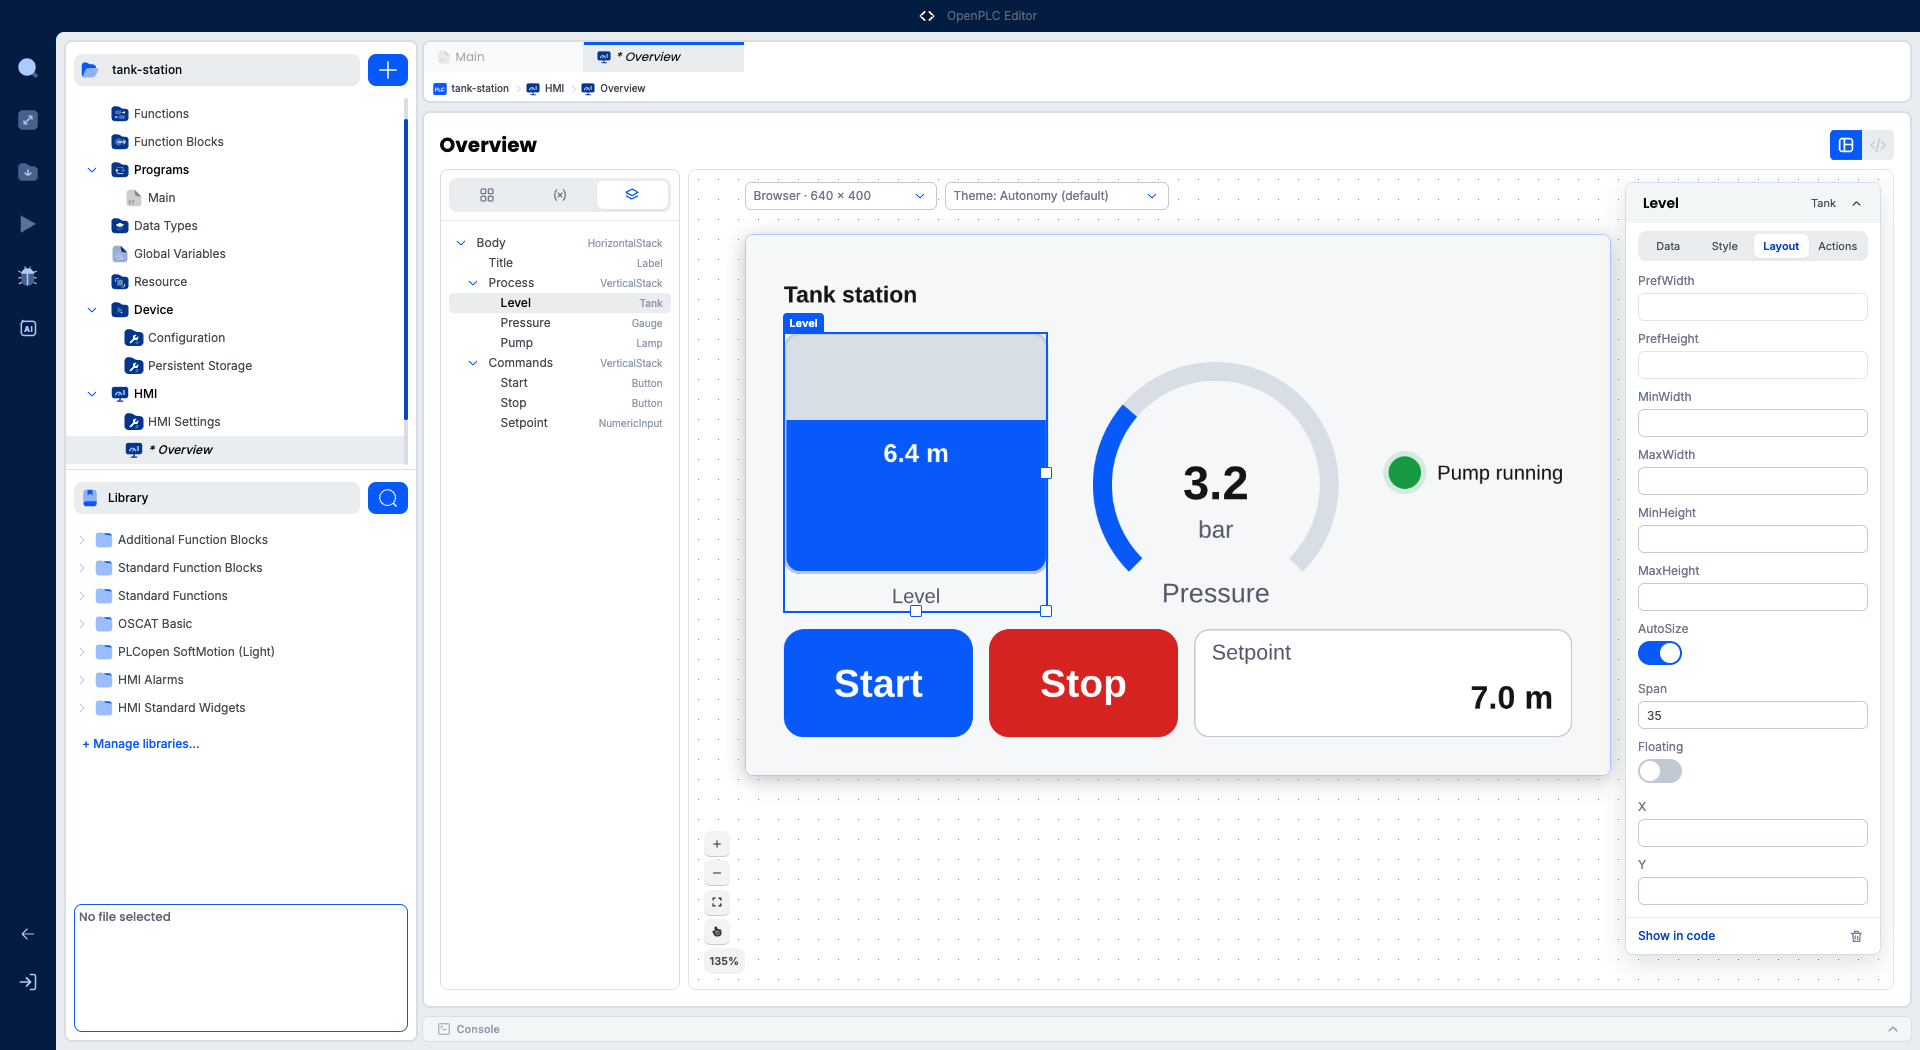
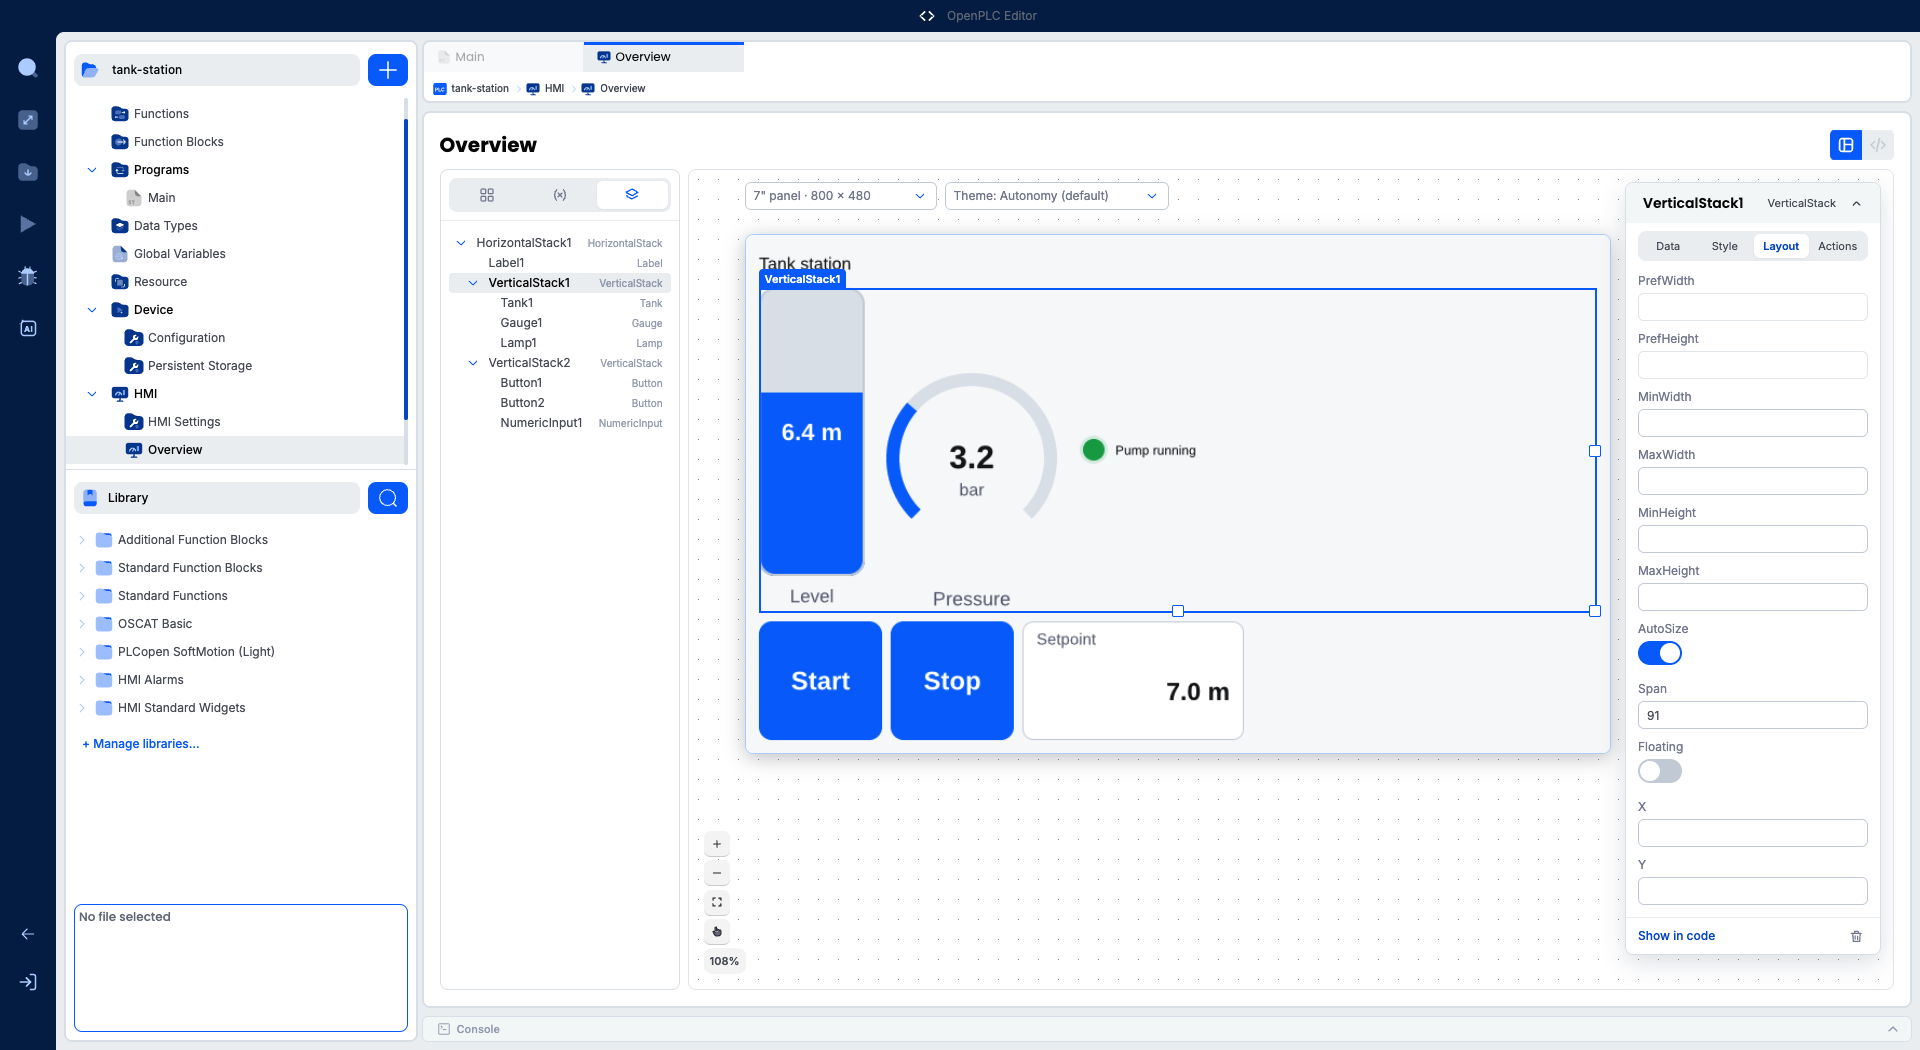
Walk through building an HMI screen step by step
Designing screens now follows one project from an empty screen to the
finished one, each screenshot showing that step. Screen code and layout
use the names the designer writes, with matching screenshots.

Claude-Session: https://claude.ai/code/session_01YB59x4JD6LNzCP8s5g9YDa

diff --git a/docs/openplc-editor/hmi/designing-screens.md b/docs/openplc-editor/hmi/designing-screens.md
@@ -1,8 +1,8 @@
 # Designing screens
 
-This page walks through building a screen in the designer, from an empty screen to a working page with live values, buttons and a setpoint.
+This page builds a screen from scratch, step by step: an empty screen first, then widgets, then live values, buttons and a setpoint. Follow along in your own project; each screenshot shows the screen at that step.
 
-The examples use a small tank station program:
+The screen is for a small tank station. Its program has a tank level, a pressure, a setpoint and a pump that starts and stops:
 
 ```st
 PROGRAM Main
@@ -21,56 +21,85 @@ END_PROGRAM
 
 ---
 
-## Creating a screen
+## Step 1. Create the screen
 
-Click the **+** button at the top of the project tree and choose **HMI Screen**. Give the screen a name, such as `Overview`.
+Click the **+** button at the top of the project tree and choose **HMI Screen**. Type a name, `Overview`, and click **Create**.
 
-![The + menu open, listing Function, Function Block, Program, Data Type, Global Variable List, Server, Remote Device, HMI Screen and HMI Widget](images/plus-menu.png)
-
-The first screen you create also adds **HMI Settings** to the **HMI** branch of the tree. A new screen starts with one container that fills it, ready for widgets.
+![The + menu open on HMI Screen, with the Name field showing Overview and the Cancel and Create buttons](images/steps-01-new-screen-name.png)
 
 > **Tip:** Screen names follow the same rules as program names: letters, digits and underscores, starting with a letter.
 
 ---
 
-## The designer
+## Step 2. Meet the designer
 
-The screen opens in the designer:
+The new screen opens in the designer. It is empty except for one container that fills it, ready for widgets. The first screen also adds **HMI Settings** to the new **HMI** branch of the project tree.
 
-![The designer: the palette on the left with Containers, Shapes and Display groups, the running screen in the centre, the device and theme pickers above it and the zoom controls below](images/designer-overview.png)
+![The designer showing the new, empty Overview screen: the widget palette on the left, the empty screen in the centre, the device and theme pickers above it and the zoom controls below](images/steps-02-new-screen.png)
 
 - **The palette** (left) has three tabs:
   - **Widgets**: everything you can place, grouped (Containers, Shapes, Display, Controls, Process, Alarms, Data), with a search box.
   - **Variables**: the program and global variables you can show.
-  - **Layers**: the screen's elements as a tree, which is the easiest way to select a container or a small element.
+  - **Layers**: the screen's elements as a tree, the easiest way to select a container or a small element.
 - **The canvas** (centre) is the screen itself, running. Values, animations and colors are live.
 - **The device picker** (above the canvas) sets the display size you preview on: **Browser**, **Browser @1x**, **7" panel**, **ESP32 CYD** or **Phone**.
 - **The theme picker** previews the screen in another theme.
 - **The zoom controls** (below left) zoom in and out, fit the screen to the window, and switch to preview mode.
-- **The properties card** (right) appears when you select an element.
 
 The two buttons at the top right switch between the **Designer** and the **Code** view of the same screen.
 
 ---
 
-## Adding widgets
+## Step 3. Add a title and a row of widgets
+
+Widgets always go into a container. The screen's container is a **Horizontal stack**: it places what you put in it top to bottom. For widgets side by side, add a **Vertical stack** into it. See [Screen layout that fits any display](layout).
 
 There are two ways to add a widget:
 
-- **Drag** it from the palette onto the canvas. A blue line shows where it lands.
-- **Double-click** it in the palette. It goes into the selected container, or at the end of the screen's main container.
+- **Double-click** it in the palette. It goes into the selected container (select one on the **Layers** tab), or at the end of the screen.
+- **Drag** it onto the canvas. The container it will land in is highlighted, and a line shows where in the container it goes.
 
-Widgets always go into a container. A **Vertical stack** places its widgets side by side, a **Horizontal stack** places them top to bottom, and a **Diagram** places them freely for process graphics. Nest stacks to build rows and columns. See [Screen layout that fits any display](layout).
+For the tank station:
 
-To move a widget, drag it to another place. To delete it, select it and press **Delete**, or click the bin in its properties card. **Copy**, **Cut** and **Paste** (Ctrl+C, Ctrl+X and Ctrl+V, or Cmd on macOS) copy widgets with everything inside them, and **Undo** and **Redo** work as everywhere else in the editor.
+1. Double-click **Label** to add a title. On its properties card (see [Step 6](#step-6-adjust-the-properties)), set its **Text** to `Tank station`.
+2. Double-click **Vertical stack** to add a row under the title.
+3. Select the row on the **Layers** tab, then double-click **Tank** and **Gauge** to add them to it.
+4. Drag a **Lamp** onto the row, after the gauge.
+
+![A Lamp being dragged onto the row: the row is highlighted in green with the label Add to VerticalStack1, and a line shows the lamp landing after the gauge](images/steps-03-drop-widget.png)
+
+The row now holds a tank, a gauge and a lamp. They show placeholder values for now.
+
+![The screen with the title Tank station and a row with a tank showing 0.0, a gauge showing 0.0 % and a grey lamp. The lamp is selected and its Value shows Not bound](images/steps-04-first-widgets.png)
+
+Each widget lands at a sensible size and leaves the rest of the row free for more. To move a widget, drag it to another place. To delete it, select it and press **Delete**, or click the bin on its properties card. **Copy**, **Cut** and **Paste** (Ctrl+C, Ctrl+X and Ctrl+V, or Cmd on macOS) copy widgets with everything inside them, and **Undo** and **Redo** work as everywhere else in the editor.
 
 ---
 
-## Showing a variable
+## Step 4. Show the program's variables
 
-Open the **Variables** tab, then drag a variable onto a widget. The widget shows that variable from then on.
+Open the **Variables** tab. It lists the program's variables under **instance0** and **Main**, with their types and initial values.
 
-![The Variables tab listing Level, Pressure, Setpoint, PumpRunning, StartPump and StopPump under instance0, Main. The Start button is selected and its properties card shows the Variable instance0.Main.StartPump and the Behavior Set to TRUE while pressed](images/designer-variable-bound.png)
+Drag **Level** onto the tank, **Pressure** onto the gauge and **PumpRunning** onto the lamp. Each widget now shows its variable: the tank and the gauge read 6.4 and 3.2, and the lamp turns green.
+
+![The Variables tab listing Level, Pressure, Setpoint, PumpRunning, StartPump and StopPump. The tank shows 6.4, the gauge 3.2 and the lamp is green. The selected tank's properties card shows its Value bound to instance0.Main.Level](images/steps-05-variables-bound.png)
+
+The tank's fill looks almost empty: the tank still uses its default range of 0 to 100. You fix that in Step 6.
+
+A widget only accepts a variable of a type it can show. Dropping a REAL on a lamp, for example, is refused with a short message. You can also pick the variable from the **Value** field on the **Data** tab of the properties card.
+
+---
+
+## Step 5. Add buttons and a setpoint
+
+Controls show a variable and write it when the operator uses them. Add a second row for them:
+
+1. Select the screen's container on the **Layers** tab and double-click **Vertical stack**.
+2. Select the new row and double-click **Button** twice and **Numeric entry** once.
+3. Set the buttons' **Text** to `Start` and `Stop`.
+4. Drag **StartPump** onto the Start button, **StopPump** onto the Stop button and **Setpoint** onto the numeric entry.
+
+![A second row with Start and Stop buttons and a Setpoint entry showing 7.0. The Start button is selected and its properties card shows the Variable instance0.Main.StartPump and the Behavior Set to TRUE while pressed](images/steps-06-button-bound.png)
 
 What dropping a variable does depends on the widget:
 
@@ -80,32 +109,36 @@ What dropping a variable does depends on the widget:
 | Switch, slider, numeric entry, text entry, drop-down, and other controls | Shows the variable and writes it when the operator changes the control. |
 | Button | Writes the variable while the button is pressed. **Behavior** chooses between **Set to TRUE while pressed** and **Set to FALSE while pressed**. |
 
-A widget only accepts a variable of a type it can show. Dropping a REAL on a lamp, for example, is refused with a short message.
-
-You can also pick the variable from the **Variable** field on the **Data** tab of the properties card.
-
 ---
 
-## Editing properties
+## Step 6. Adjust the properties
 
 Select an element to open its properties card. The properties are grouped in tabs:
 
-- **Data**: the variable the widget shows, and the values that shape it (minimum, maximum, decimals, units).
-- **Style**: colors, captions, fonts and sizes.
+- **Data**: the variable the widget shows.
+- **Style**: captions, units, ranges, colors, fonts and sizes.
 - **Layout**: how the element takes its room. See [Screen layout that fits any display](layout).
 - **Actions**: what happens when the operator presses it. You can **Show a screen**, **Go back**, **Sign out**, **Lock the panel**, **Calibrate touch**, **Set a variable**, **Toggle a variable**, or write your own **ST code**.
 
-Colors offer the theme's colors (like Accent, Danger or Surface), which follow the screen's theme, or a fixed color of your choice.
+For the tank station, on the **Style** tab:
 
-**Show in code** at the bottom of the card opens the code view at that element's declaration.
+- Tank: **Caption** `Level`, **Unit** `m`, **MaxValue** `10.0`. The tank now fills to 6.4 of 10.
+- Gauge: **Caption** `Pressure`, **Unit** `bar`, **MaxValue** `10.0`.
+- Lamp: **Caption** `Pump running`.
+- Numeric entry: **Unit** `m`, **MinValue** `0.0`, **MaxValue** `10.0`. Operators cannot enter a setpoint outside these limits.
+- Title: **Size** `24`.
+
+![The Layers tab listing the screen's elements, and the tank selected with its Style tab showing MinValue 0.0, MaxValue 10.0, Decimals 1, Unit m and Caption Level. The tank now reads 6.4 m and the gauge 3.2 bar](images/steps-07-properties.png)
+
+Colors offer the theme's colors (like Accent, Danger or Surface), which follow the screen's theme, or a fixed color of your choice. **Show in code** at the bottom of the card opens the code view at that element's declaration.
 
 ---
 
-## Previewing
+## Step 7. Try it
 
-The canvas always runs the screen. To operate it the way an operator would, click the hand button under the zoom controls. Presses now reach the widgets instead of selecting them. Press **Esc** to return to designing.
+The canvas always runs the screen. To operate it the way an operator would, click the hand button under the zoom controls. Presses now reach the widgets instead of selecting them: press **Start** and **Stop**, or tap the setpoint to type a value. Press **Esc** to return to designing.
 
-![The screen in preview mode, outlined in blue, with the notice Preview mode, press Esc to exit](images/designer-preview-mode.png)
+![The finished screen in preview mode, outlined in blue, with the notice Preview mode, press Esc to exit](images/steps-08-preview-mode.png)
 
 Most edits show at once. Some changes, like editing code, need a new build of the preview: the editor builds it in the background on its own, and the last result stays on screen meanwhile.
 
@@ -113,13 +146,13 @@ Most edits show at once. Some changes, like editing code, need a new build of th
 
 ---
 
-## The code view
+## Step 8. Look at the code
 
-Every screen is Structured Text, and the **Code** view shows it. Changes in one view appear in the other.
+Every screen is Structured Text. Click the **Code** button at the top right to see what the designer wrote for you:
 
-![The code view of the Overview screen: element declarations with their properties, the variable bindings, and the Start and Stop button handling](images/designer-code-view.png)
+![The code view of the Overview screen: the element declarations with their properties and spans, the three variable bindings, the Start and Stop button handling and the setpoint binding](images/steps-09-code-view.png)
 
-You rarely need to write screen code, but it is there when you want it: to compute a value, to run logic on a button press, or to navigate between screens. See [Screen code](screen-code).
+Each element is a declaration with its properties, and the variables you dropped are assignments in the body. Changes in one view appear in the other. You rarely need to write screen code, but it is there when you want it: to compute a value, to run logic on a button press, or to navigate between screens. See [Screen code](screen-code).
 
 ---
 

diff --git a/docs/openplc-editor/hmi/screen-code.md b/docs/openplc-editor/hmi/screen-code.md
@@ -8,32 +8,32 @@ You can build complete HMIs without writing code. This page is for when you want
 
 ## What a screen looks like
 
-This is the Overview screen from [Designing screens](designing-screens), as the designer wrote it:
+This is the Overview screen from [Designing screens](designing-screens), as the designer wrote it. The designer names each element after its widget and a number (Label1, Tank1, Button1), and you can keep those names:
 
 ```st
 FUNCTION_BLOCK Overview EXTENDS HmiScreen
   VAR
-    Body : HmiHorizontalStack := (AutoSize := TRUE, Span := 100, Gap := 12, Padding := 16);
-    Title : HmiLabel := (Parent := 'Body', Text := 'Tank station', Size := 24, Font := HMI_FONT#Bold, AutoSize := TRUE, Span := 10);
-    Process : HmiVerticalStack := (Parent := 'Body', AutoSize := TRUE, Span := 65, Gap := 12);
-    Level : HmiTank := (Parent := 'Process', Caption := 'Level', Unit := 'm', MaxValue := 10.0, AutoSize := TRUE, Span := 35);
-    Pressure : HmiGauge := (Parent := 'Process', Caption := 'Pressure', Unit := 'bar', MaxValue := 10.0, AutoSize := TRUE, Span := 40);
-    Pump : HmiLamp := (Parent := 'Process', Caption := 'Pump running', AutoSize := TRUE, Span := 25);
-    Commands : HmiVerticalStack := (Parent := 'Body', AutoSize := TRUE, Span := 25, Gap := 12);
-    Start : HmiButton := (Parent := 'Commands', Text := 'Start', AutoSize := TRUE, Span := 25);
-    Stop : HmiButton := (Parent := 'Commands', Text := 'Stop', AccentColor := COLOR.Danger, AutoSize := TRUE, Span := 25);
-    Setpoint : HmiNumericInput := (Parent := 'Commands', Caption := 'Setpoint', Unit := 'm', MinValue := 0.0, MaxValue := 10.0, AutoSize := TRUE, Span := 50);
+    HorizontalStack1 : HmiHorizontalStack := (AutoSize := TRUE, Span := 100);
+    Label1 : HmiLabel := (Parent := 'HorizontalStack1', AutoSize := TRUE, Span := 9, Text := 'Tank station', Size := 24);
+    VerticalStack1 : HmiVerticalStack := (Parent := 'HorizontalStack1', AutoSize := TRUE, Span := 91);
+    Tank1 : HmiTank := (Parent := 'VerticalStack1', AutoSize := TRUE, Span := 13, Caption := 'Level', Unit := 'm', MaxValue := 10.0);
+    Gauge1 : HmiGauge := (Parent := 'VerticalStack1', AutoSize := TRUE, Span := 24, Caption := 'Pressure', Unit := 'bar', MaxValue := 10.0);
+    Lamp1 : HmiLamp := (Parent := 'VerticalStack1', AutoSize := TRUE, Span := 15, Caption := 'Pump running');
+    VerticalStack2 : HmiVerticalStack := (Parent := 'HorizontalStack1', AutoSize := TRUE, Span := 33);
+    Button1 : HmiButton := (Parent := 'VerticalStack2', AutoSize := TRUE, Span := 15, Text := 'Start');
+    Button2 : HmiButton := (Parent := 'VerticalStack2', AutoSize := TRUE, Span := 15, Text := 'Stop');
+    NumericInput1 : HmiNumericInput := (Parent := 'VerticalStack2', AutoSize := TRUE, Span := 27, Unit := 'm', MinValue := 0.0, MaxValue := 10.0);
   END_VAR
-  Level.Value := instance0.Main.Level;
-  Pressure.Value := instance0.Main.Pressure;
-  Pump.Value := instance0.Main.PumpRunning;
-  Setpoint.Value := instance0.Main.Setpoint;
-  IF Start.Changed THEN
-    instance0.Main.StartPump := Start.Pressed;
+  Tank1.Value := instance0.Main.Level;
+  Gauge1.Value := instance0.Main.Pressure;
+  Lamp1.Value := instance0.Main.PumpRunning;
+  IF Button1.Changed THEN
+    instance0.Main.StartPump := Button1.Pressed;
   END_IF;
-  IF Stop.Changed THEN
-    instance0.Main.StopPump := Stop.Pressed;
+  IF Button2.Changed THEN
+    instance0.Main.StopPump := Button2.Pressed;
   END_IF;
+  NumericInput1.Value := instance0.Main.Setpoint;
 END_FUNCTION_BLOCK
 ```
 
@@ -50,7 +50,7 @@ Three parts:
 Assign a variable to a widget's value in the body:
 
 ```st
-Level.Value := instance0.Main.Level;
+Tank1.Value := instance0.Main.Level;
 ```
 
 Program variables are named through their instance, as in the **Variables** tab: `instance0.Main.Level` is the `Level` variable of the `Main` program running as `instance0`. Global variables are named directly, like `MaxLevel`.
@@ -67,13 +67,13 @@ On OpenPLC Runtime v4, the device sends each display only the variables of the s
 
 ## Writing PLC variables
 
-A control assigned to a variable, like the `Setpoint` numeric entry above, also writes the variable back when the operator changes it. You do not write that part yourself.
+A control assigned to a variable, like the `NumericInput1` numeric entry above, also writes the variable back when the operator changes it. You do not write that part yourself.
 
 Buttons write on press and release. This is what the designer writes when you drop a BOOL on a button:
 
 ```st
-IF Start.Changed THEN
-  instance0.Main.StartPump := Start.Pressed;
+IF Button1.Changed THEN
+  instance0.Main.StartPump := Button1.Pressed;
 END_IF;
 ```
 
@@ -113,8 +113,8 @@ The **Actions** tab of a widget's properties writes these for you: **Show a scre
 Any property can be assigned in the body, not only the main value. For example, a lamp that turns red on a fault and a button that is only enabled when the pump is stopped:
 
 ```st
-Pump.OnColor := SEL(instance0.Main.PumpFault, COLOR.Success, COLOR.Danger);
-Start.Enabled := NOT instance0.Main.PumpRunning;
+Lamp1.OnColor := SEL(instance0.Main.PumpFault, COLOR.Success, COLOR.Danger);
+Button1.Enabled := NOT instance0.Main.PumpRunning;
 Alarm.Visible := instance0.Main.AlarmActive;
 ```
 

diff --git a/docs/openplc-editor/hmi/layout.md b/docs/openplc-editor/hmi/layout.md
@@ -4,7 +4,7 @@ An OpenPLC HMI screen has no fixed size. The same screen runs on a 320 by 240 to
 
 Here is the same Overview screen, unchanged, on three of the editor's preview devices:
 
-![The Tank station screen previewed on a 7 inch panel at 800 by 480: the title on top, the tank, gauge and pump lamp in a row, and the Start, Stop, Setpoint and battery widgets in a row below](images/layout-panel-7.png)
+![The Tank station screen previewed on a 7 inch panel at 800 by 480: the title on top, the tank, gauge and pump lamp in a row, and the Start and Stop buttons and the Setpoint entry in a row below](images/layout-panel-7.png)
 
 ![The same screen previewed on an ESP32 CYD at 320 by 240: every widget keeps its share of the room, at a smaller size](images/layout-cyd.png)
 
@@ -22,7 +22,7 @@ Every widget sits in a container. There are three kinds:
 
 Stacks nest. The Overview screen above is a horizontal stack (the screen, top to bottom) holding a title, a row for the process widgets and a row for the commands. Each row is a vertical stack.
 
-![The Layers tab showing the screen's tree: Body, a HorizontalStack, holding Title, the Process VerticalStack with Level, Pressure and Pump, and the Commands VerticalStack with Start, Stop and Setpoint](images/designer-layout-properties.png)
+![The Layers tab showing the screen's tree: HorizontalStack1 holding Label1, VerticalStack1 with Tank1, Gauge1 and Lamp1, and VerticalStack2 with Button1, Button2 and NumericInput1. VerticalStack1 is selected, and its Layout tab shows AutoSize on and a Span of 91](images/designer-layout-properties.png)
 
 Only containers sit directly on the screen, so a screen always starts with one: a new screen comes with a horizontal stack that fills it.
 
